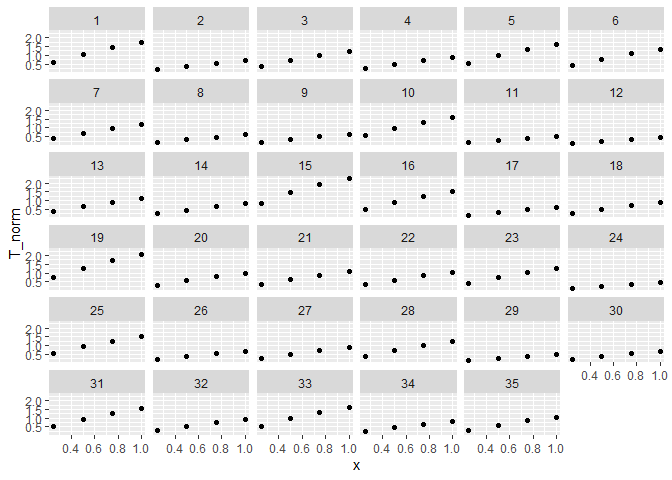
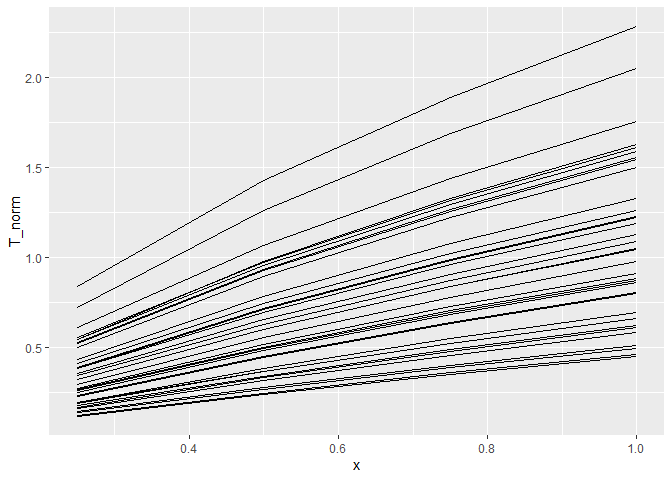
challenge 11 revisions

diff --git a/challenges/c11-psaap-assignment.md b/challenges/c11-psaap-assignment.md
@@ -273,9 +273,8 @@ of fluid, for different experimental settings (e.g. different dimensions
 ##       each identified by different values of idx
 
 df_psaap |>
-  ggplot(aes(x = x, y = T_norm)) +
-  geom_point() +
-  facet_wrap("idx")
+  ggplot(aes(x = x, y = T_norm, group = idx)) +
+  geom_line()
 ```
 
 ![](c11-psaap-assignment_files/figure-gfm/q2-task-1.png)<!-- -->
@@ -431,16 +430,18 @@ summary(fit_q4)
     -0.0003791.
 - What is the standard deviation of `x` in `df_psaap`? What about the
   standard deviation of `T_f`?
-  - The standard deviation of x is 1.656 and the standard deviation of
-    T_f is 1.173 \* 10 ^ -3
+  - The standard deviation of x is `1.656*sqrt(80) = 14.811` and the
+    standard deviation of T_f is `1.173 * 10^-3 * sqrt(80) = 0.0104`
 - How do these standard deviations relate to the regression coefficients
   for `x` and `T_f`?
-  - The standard deviation of x is much larger than that of T_f, and
-    that lines up with what we see in the model. The coefficient for x
-    is also quite large (about 1.02), meaning changes in x have a strong
-    impact on T_norm. `T_f` has a smaller standard deviation and its
-    regression coefficient is also very small, which means that the when
-    `T_f` changes, it barely affects `T_norm`.
+  - x has a large standard deviation and a large coefficient. This means
+    that not only does x vary a lot across the data, but that variation
+    has a strong effect on T_norm. Even small relative shifts in x can
+    have a big impact on the output. On the other hand, T_f has a very
+    small standard deviation and a tiny coefficient. This means T_f
+    doesn’t vary much, and even when it does, it has little to no
+    meaningful impact on T_norm. Its effect is essentially drowned out
+    by noise in the system.
 - Note that literally *all* of the inputs above have *some* effect on
   the output `T_norm`; so they are all “significant” in that sense. What
   does this tell us about the limitations of statistical significance
@@ -711,14 +712,14 @@ df_intervals <-
 
 
 df_intervals |>
-  summarize(lwr_bound = mean(ci_lwr),
-          upr_bound = mean(ci_upr))
+  summarize(lwr_bound = mean(pi_lwr),
+          upr_bound = mean(pi_upr))
 ```
 
     ## # A tibble: 1 × 2
     ##   lwr_bound upr_bound
     ##       <dbl>     <dbl>
-    ## 1     0.680     0.864
+    ## 1     0.387      1.16
 
 **Recommendation**:
 
@@ -751,7 +752,7 @@ df_intervals |>
     valued.
 - What interval for `T_norm` would you recommend the design team to plan
   around?
-  - 0.680 and 0.864
+  - 0.386 and 1.158
 - Are there any other recommendations you would provide?
   - If the team has control over other variables besides x, L, W, and
     U_0, incorporating them into the model could improve accuracy.
